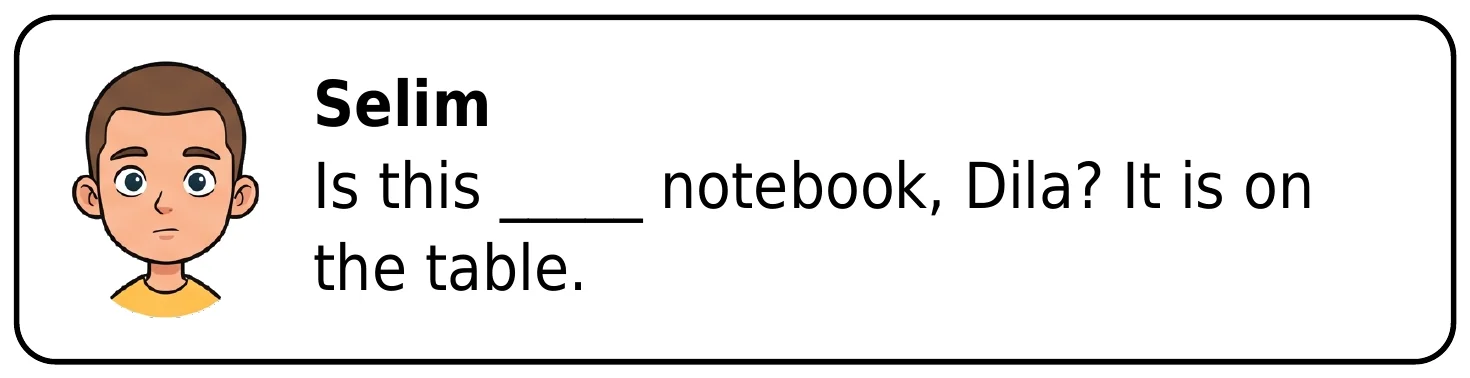
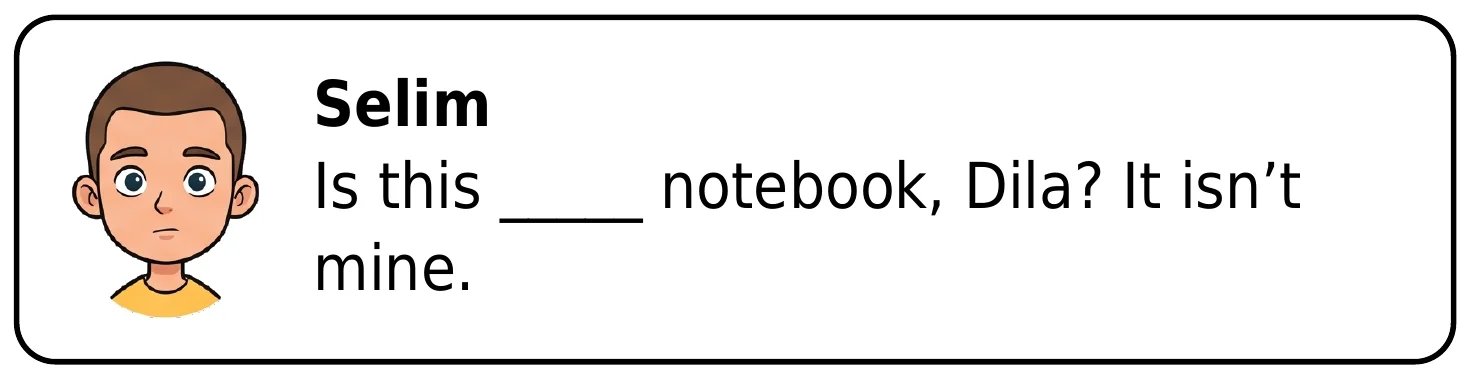
6,2,3 test fix

Changed region(s): [[0.2143, 0.6402, 0.398, 0.7857], [0.8265, 0.4365, 0.9184, 0.5529]]

diff --git a/6/multest/un2/g6_un2_test_3.html b/6/multest/un2/g6_un2_test_3.html
@@ -136,7 +136,7 @@ a.btn{display:inline-block;text-decoration:none}
   </div>
   <main class="wrap hide" id="game"></main>
   <script>
-    const Q = [{"t": "Look at the table about the City Library Event Day.", "c": "Şehir kütüphanesi etkinlik gününde salonların koltuk sayılarını gösteren tablo", "q": "According to the table above, which of the following is <u>NOT</u> correct?", "o": ["The Reading Room has 250 seats.", "The Story Room has 150 seats.", "The Meeting Hall has 300 seats.", "The Garden has 500 seats."], "a": 2, "w": "Tabloya göre Meeting Hall’da four hundred (400) koltuk var; C şıkkındaki 300 doğru değil. Tuzak: three hundred (300) ile four hundred (400) karıştırılabilir."}, {"t": "Selim is talking to Dila in the classroom. Read his question.", "c": "Selim'in Dila'ya defter hakkında sorduğu soru", "q": "Which of the following completes Selim's question?", "o": ["Her", "My", "Their", "Your"], "a": 3, "w": "Selim karşısındaki Dila ile konuşuyor; karşıdaki kişiye ait şey için “your” kullanılır: Is this your notebook, Dila? “My” konuşana, “Her” ve “Their” üçüncü kişilere aittir. Tuzak: my ve your karıştırılır."}, {"t": "Gizem sees Orkun in the classroom. Read the conversation.", "c": "Gizem'in Orkun'a şu an ne yaptığını sorduğu konuşma", "q": "Which of the following completes the conversation above?", "o": ["What do you do every day?", "How often do you do research?", "What are you doing right now?", "Where do you usually study?"], "a": 2, "w": "Cevap “I am working…” şu anda olan bir eylemi anlatır (Present Continuous), bu yüzden soru “What are you doing right now?” olmalıdır. A alışkanlık, B sıklık, D yer sorar."}, {"t": "Four students are visiting a botanical garden today. Read the comments.", "c": "Dört öğrencinin botanik bahçesindeki alışkanlıklarını ve şu an yaptıklarını anlattığı yorumlar", "q": "According to the comments above, which two people are taking notes <u>at the moment</u>?", "o": ["Aylin and Taner", "Yiğit and Aylin", "Kübra and Taner", "Yiğit and Kübra"], "a": 1, "w": "Şu an not tutanlar: Yiğit (“today I am taking notes”) ve Aylin (“we are taking notes… now”). Kübra alışkanlıktan söz ediyor (always/never), Taner ise ağaçlara bakıyor."}, {"t": "Five students are waiting in the queue for the planetarium. Each student has a ticket number.", "c": "Gezegenevi kuyruğunda bekleyen beş öğrencinin bilet numaraları", "q": "According to the information above, which two students should change places to stand from the smallest ticket number to the largest?", "o": ["Sibel and Ozan", "Cenk and Pelin", "Mina and Cenk", "Ozan and Mina"], "a": 3, "w": "Doğru sıra: twelfth (12.) – twenty-third (23.) – thirty-second (32.) – forty-seventh (47.) – fiftieth (50.). Şu anda 32. ile 23. bilet yer değiştirmiş; Ozan ve Mina yer değiştirirse sıra düzelir. Diğer çiftler değişince sıra yine bozuk kalır."}, {"t": "Four students are talking about their friends at the Science Centre. Read the comments.", "c": "Dört öğrencinin bilim merkezinde arkadaşları hakkındaki yorumları", "q": "According to the comments above, who is talking about something that belongs to a <u>girl</u>?", "o": ["Cem", "Ece", "Hakan", "Zehra"], "a": 1, "w": "Ece: “Her group…” = bir kıza ait olan şey (her = onun, kıza ait). Cem “His notes” ile bir erkekten, Hakan “My peer” ile kendi arkadaşından, Zehra “Our teacher” ile grubun öğretmeninden söz ediyor. Tuzak: her (kız) ve his (erkek) karıştırılır."}, {"t": "Ms Karaca asked four students about their learning places. She wants three pieces of information: the place, how often they go there, and what they do there. Read the cards.", "c": "Dört öğrencinin okul dışı öğrenme mekânlarını anlattığı kartlar", "q": "Which of the following cards includes <u>all</u> the information Ms Karaca asked for?", "o": ["Tuğba", "Onur", "Sema", "Mert"], "a": 3, "w": "Üç bilgi: mekân (library), sıklık (every Friday), etkinlik (do research). Yalnızca Mert’in kartında üçü de var. Tuğba’nın kartında ne yaptığı, Onur’da sıklık, Sema’da mekân eksik."}, {"t": "Rana and her classmate are talking about study habits. Read the conversation.", "c": "Rana ve sınıf arkadaşının internette araştırma alışkanlığı hakkındaki konuşması", "q": "Which of the following completes the conversation above?", "o": ["How often do you do research on the Net?", "What do you do after school?", "Where do you do your research?", "Who helps you with your research?"], "a": 0, "w": "“Every day after school” sıklığı anlatır, bu cevap “How often …?” sorusuna uyar. What, Where ve Who soruları sırasıyla nesne/eylem, yer ve kişi bilgisi ister."}, {"t": "Hira wants to join a club at school. She likes working in pairs, and she wants to go to the club every day. Look at the table.", "c": "Okul kulüplerinin çalışma biçimini ve sıklığını gösteren tablo", "q": "According to the information above, which club should Hira choose?", "o": ["Story Club", "Maths Club", "Robot Club", "Word Club"], "a": 1, "w": "Hira iki şart arıyor: in pairs + every day. Tabloda ikisini de karşılayan tek kulüp Maths Club’dır. Word Club ikili çalışır ama her Cuma toplanır; Robot Club her gün toplanır ama tek başına çalışılır."}, {"t": "Two friends are talking about the English lesson. Read the conversation.", "c": "İki arkadaşın çalışma kâğıdı hakkındaki konuşması", "q": "Which of the following completes the conversation above?", "o": ["Yes, we do. She wants us to share our ideas.", "Yes, she does. She is our English teacher.", "No, I don't. I am answering them now.", "Yes, it is. The worksheet is very long."], "a": 0, "w": "“Do we have to…?” sorusuna “we” özneli kısa cevap verilir: Yes, we do. B (she does), C (I don't) ve D (it is) soruya uygun özne ve yardımcı fiili taşımaz."}];
+    const Q = [{"t": "Look at the table about the City Library Event Day.", "c": "Şehir kütüphanesi etkinlik gününde salonların koltuk sayılarını gösteren tablo", "q": "According to the table above, which of the following is <u>NOT</u> correct?", "o": ["The Reading Room has 250 seats.", "The Story Room has 150 seats.", "The Meeting Hall has 300 seats.", "The Garden has 500 seats."], "a": 2, "w": "Tabloya göre Meeting Hall’da four hundred (400) koltuk var; C şıkkındaki 300 doğru değil. Tuzak: three hundred (300) ile four hundred (400) karıştırılabilir."}, {"t": "Selim is talking to Dila in the classroom. Read his question.", "c": "Selim'in Dila'ya defter hakkında sorduğu soru", "q": "Which of the following completes Selim's question?", "o": ["Her", "My", "Their", "Your"], "a": 3, "w": "Selim karşısındaki Dila ile konuşuyor ve defterin kendisine ait olmadığını (It isn’t mine) söylüyor. Karşıdaki kişiye ait şey için “your” kullanılır: Is this your notebook, Dila? “My” konuşana, “Her” ve “Their” üçüncü kişilere aittir. Tuzak: my ve your karıştırılır."}, {"t": "Gizem sees Orkun in the classroom. Read the conversation.", "c": "Gizem'in Orkun'a şu an ne yaptığını sorduğu konuşma", "q": "Which of the following completes the conversation above?", "o": ["What do you do every day?", "How often do you do research?", "What are you doing right now?", "Where do you usually study?"], "a": 2, "w": "Cevap “I am working…” şu anda olan bir eylemi anlatır (Present Continuous), bu yüzden soru “What are you doing right now?” olmalıdır. A alışkanlık, B sıklık, D yer sorar."}, {"t": "Four students are visiting a botanical garden today. Read the comments.", "c": "Dört öğrencinin botanik bahçesindeki alışkanlıklarını ve şu an yaptıklarını anlattığı yorumlar", "q": "According to the comments above, which two people are taking notes <u>at the moment</u>?", "o": ["Aylin and Taner", "Yiğit and Aylin", "Kübra and Taner", "Yiğit and Kübra"], "a": 1, "w": "Şu an not tutanlar: Yiğit (“today I am taking notes”) ve Aylin (“we are taking notes… now”). Kübra alışkanlıktan söz ediyor (always/never), Taner ise ağaçlara bakıyor."}, {"t": "Five students are waiting in the queue for the planetarium. Each student has a ticket number. They are standing in the order given below.", "c": "Gezegenevi kuyruğunda bekleyen beş öğrencinin bilet numaraları", "q": "According to the information given, which two students should change places so that they are in order from the smallest ticket number to the largest?", "o": ["Sibel and Ozan", "Cenk and Pelin", "Mina and Cenk", "Ozan and Mina"], "a": 3, "w": "Doğru sıra: twelfth (12.) – twenty-third (23.) – thirty-second (32.) – forty-seventh (47.) – fiftieth (50.). Şu anda 32. ile 23. bilet yer değiştirmiş; Ozan ve Mina yer değiştirirse sıra düzelir. Diğer çiftler değişince sıra yine bozuk kalır."}, {"t": "Four students are talking about their friends at the Science Centre. Read the comments.", "c": "Dört öğrencinin bilim merkezinde arkadaşları hakkındaki yorumları", "q": "According to the comments above, who is talking about something that belongs to a <u>girl</u>?", "o": ["Cem", "Ece", "Hakan", "Zehra"], "a": 1, "w": "Ece: “Her group…” = bir kıza ait olan şey (her = onun, kıza ait). Cem “His notes” ile bir erkekten, Hakan “My peer” ile kendi arkadaşından, Zehra “Our teacher” ile grubun öğretmeninden söz ediyor. Tuzak: her (kız) ve his (erkek) karıştırılır."}, {"t": "Ms Karaca asked four students about their learning places. She wants three pieces of information: the place, how often they go there, and what they do there. Read the cards.", "c": "Dört öğrencinin okul dışı öğrenme mekânlarını anlattığı kartlar", "q": "Which of the following cards includes <u>all</u> the information Ms Karaca asked for?", "o": ["Tuğba", "Onur", "Sema", "Mert"], "a": 3, "w": "Üç bilgi: mekân (library), sıklık (every Friday), etkinlik (do research). Yalnızca Mert’in kartında üçü de var. Tuğba’nın kartında ne yaptığı, Onur’da sıklık, Sema’da mekân eksik."}, {"t": "Rana and her classmate are talking about study habits. Read the conversation.", "c": "Rana ve sınıf arkadaşının internette araştırma alışkanlığı hakkındaki konuşması", "q": "Which of the following completes the conversation above?", "o": ["How often do you do research on the Net?", "What do you do after school?", "Where do you do your research?", "Who helps you with your research?"], "a": 0, "w": "“Every day after school” sıklığı anlatır, bu cevap “How often …?” sorusuna uyar. What, Where ve Who soruları sırasıyla nesne/eylem, yer ve kişi bilgisi ister."}, {"t": "Hira wants to join a club at school. She likes working in pairs, and she wants to go to the club every day. Look at the table.", "c": "Okul kulüplerinin çalışma biçimini ve sıklığını gösteren tablo", "q": "According to the information above, which club should Hira choose?", "o": ["Story Club", "Maths Club", "Robot Club", "Word Club"], "a": 1, "w": "Hira iki şart arıyor: in pairs + every day. Tabloda ikisini de karşılayan tek kulüp Maths Club’dır. Word Club ikili çalışır ama her Cuma toplanır; Robot Club her gün toplanır ama tek başına çalışılır."}, {"t": "Two friends are talking about the English lesson. Read the conversation.", "c": "İki arkadaşın çalışma kâğıdı hakkındaki konuşması", "q": "Which of the following completes the conversation above?", "o": ["Yes, we do. She wants us to share our ideas.", "Yes, she does. She is our English teacher.", "No, I don't. I am answering them now.", "Yes, it is. The worksheet is very long."], "a": 0, "w": "“Do we have to…?” sorusuna “we” özneli kısa cevap verilir: Yes, we do. B (she does), C (I don't) ve D (it is) soruya uygun özne ve yardımcı fiili taşımaz."}];
     const IMG = ["img/g6_un2_test_3_q01.webp", "img/g6_un2_test_3_q02.webp", "img/g6_un2_test_3_q03.webp", "img/g6_un2_test_3_q04.webp", "img/g6_un2_test_3_q05.webp", "img/g6_un2_test_3_q06.webp", "img/g6_un2_test_3_q07.webp", "img/g6_un2_test_3_q08.webp", "img/g6_un2_test_3_q09.webp", "img/g6_un2_test_3_q10.webp"];
     /* Tüm soru görsellerini sayfa açılır açılmaz arka planda indirir; "Sonraki" denince hazır bekler */
     const PRE = IMG.map(src => { const im = new Image(); im.decoding = "async"; im.src = src; return im });
@@ -189,7 +189,7 @@ a.btn{display:inline-block;text-decoration:none}
       rv = false;
       const ok = Q.filter((d, k) => sel[k] === d.a).length, b = sel.filter(s => s === null).length, nb = bad().length;
       const w = $("game"); w.classList.add("resmode");
-      w.innerHTML = `<div class="card res"><div class="rhead"><h2>🏆 Test bitti!</h2><div class="big">${ok} / ${Q.length}</div><p class="cnt"><b>${ok}</b> doğru • <b>${Q.length - ok - b}</b> yanlış • <b>${b}</b> boş</p><div class="rbtns"><button class="btn g" onclick="restart()">🔄 Yeniden Başlat</button><a class="btn" href="https://cdn.teachermurat.com/6/un2_lgstests/g6_un2_test_3.pdf?v=1" download>📄 Testi indir (PDF)</a></div></div>
+      w.innerHTML = `<div class="card res"><div class="rhead"><h2>🏆 Test bitti!</h2><div class="big">${ok} / ${Q.length}</div><p class="cnt"><b>${ok}</b> doğru • <b>${Q.length - ok - b}</b> yanlış • <b>${b}</b> boş</p><div class="rbtns"><button class="btn g" onclick="restart()">🔄 Yeniden Başlat</button><a class="btn" href="https://cdn.teachermurat.com/6/un2_lgstests/g6_un2_test_3.pdf?v=2" download>📄 Testi indir (PDF)</a></div></div>
   <p class="hint">${nb ? "👆 Yanlış ve boş soruların üzerine tıkla: soruya dön, doğru cevabı ve açıklamayı gör." : "🎉 Hepsi doğru, tebrikler! İstersen herhangi bir soruya tıklayıp tekrar bakabilirsin."}</p>
   <div class="rgrid">${Q.map((d, k) => { const s = sel[k], c = s === d.a; return `<button class="tile ${s === null ? "bl" : c ? "ok" : "no"}" onclick="review(${k})" aria-label="Soru ${k + 1}"><span class="th"><span class="tn">${k + 1}</span><span class="ti">${c ? "✅" : s === null ? "➖" : "❌"}</span></span><span class="tb">${c ? "<span class=\"tok\">Doğru</span>" : "<span class=\"ra\"><i>Senin</i><b class=\"mine\">" + (s === null ? "–" : L[s]) + "</b></span><span class=\"ra\"><i>Doğru</i><b class=\"rt\">" + L[d.a] + "</b></span>"}</span>${c ? "" : "<span class=\"tgo\">🔍 Soruya dön</span>"}</button>` }).join("")}</div></div>`;
       window.scrollTo(0, 0); fitRes();
